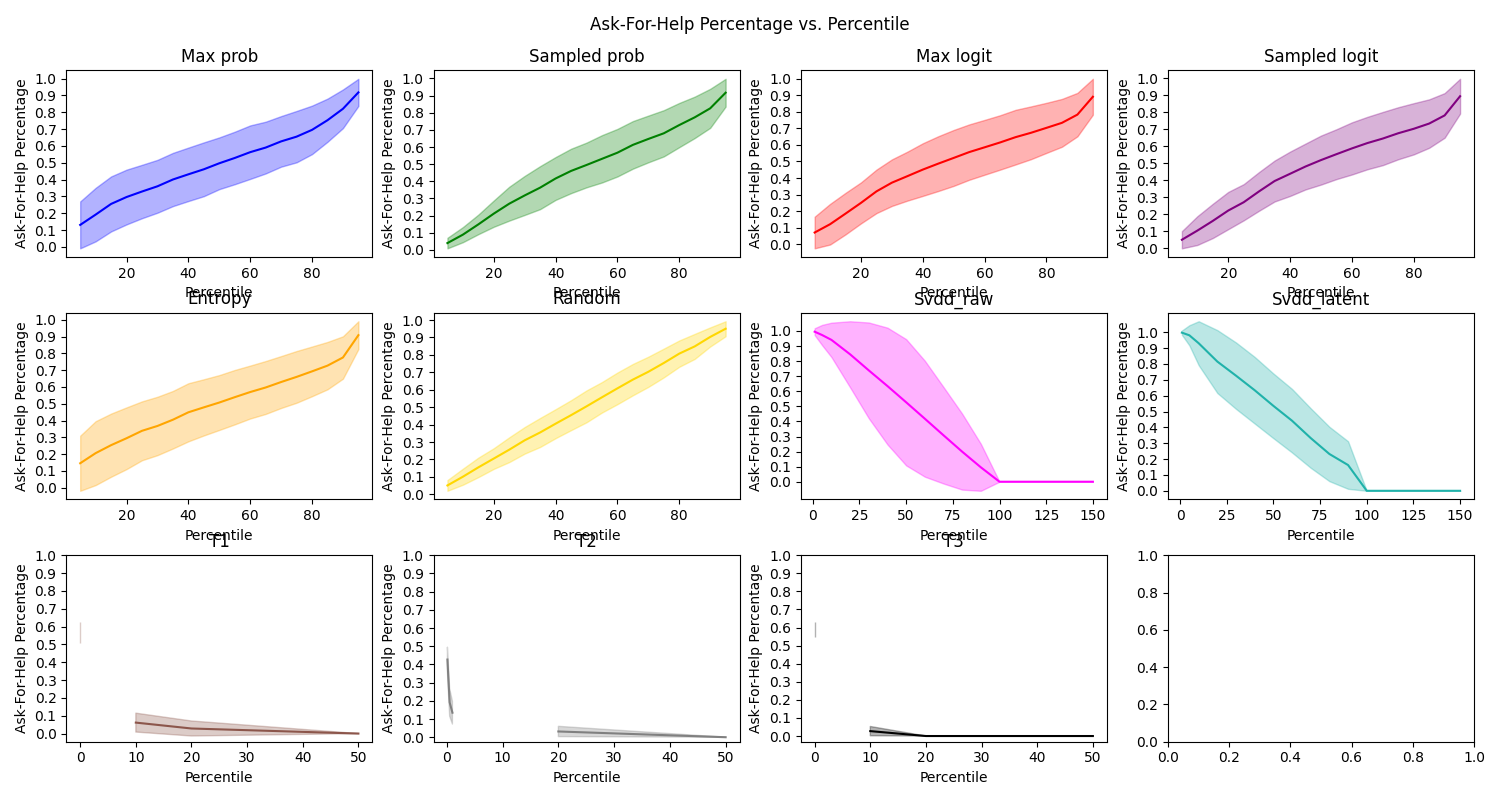
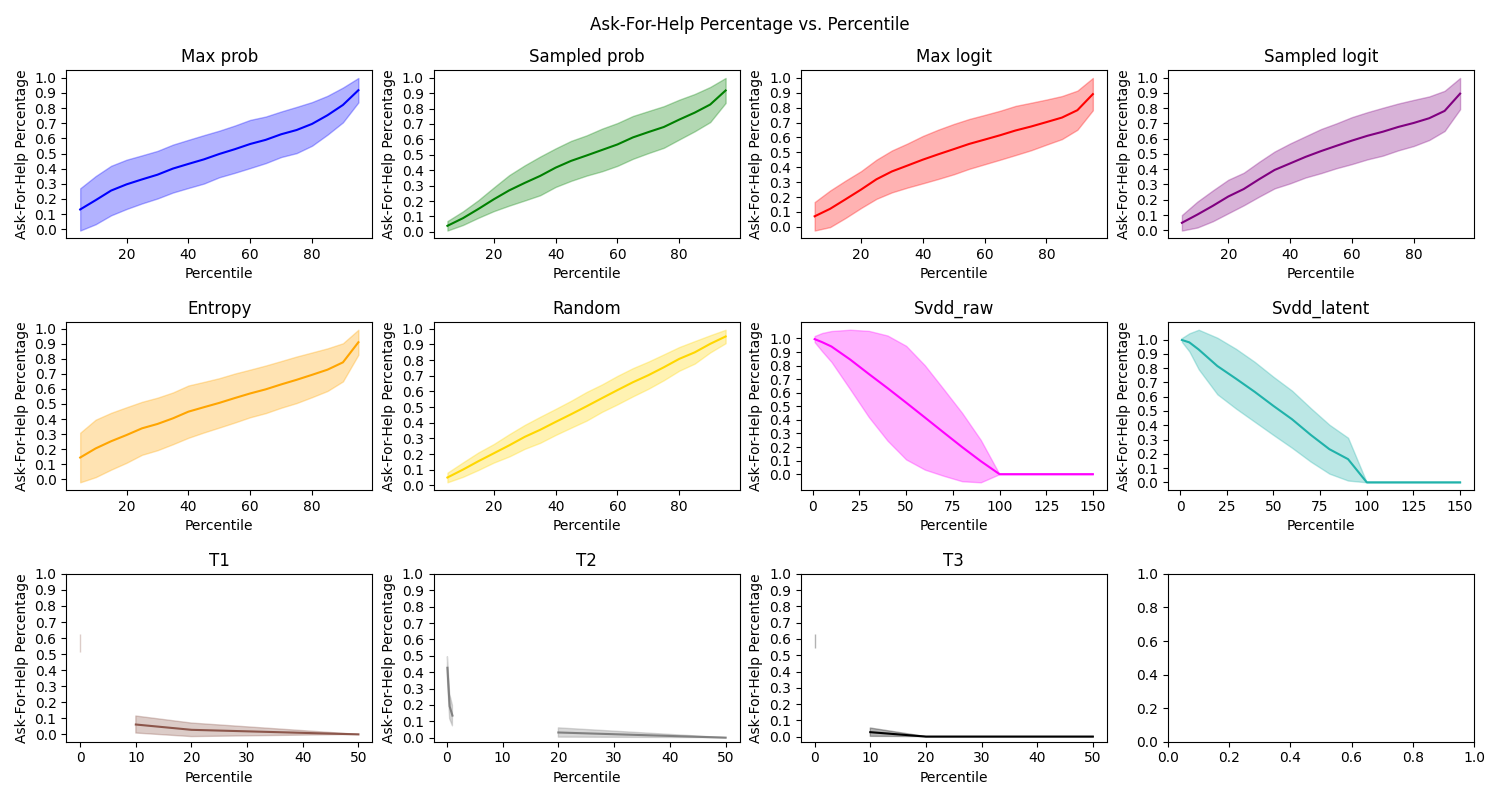
modifications

diff --git a/full_analysis.py b/full_analysis.py
@@ -210,16 +210,17 @@ for metric in include_metrics:
                         rewards = [min(reward, norm_factor) for reward in rewards]
                     else:
                         assert all([reward <= 10 for reward in rewards]), f"wtf {metric} {it} {rewards}"
+                    normalized_rewards = [reward / norm_factor for reward in rewards]
                     if args.grand_metric:
-                        rew_by_perc.append([reward / norm_factor for reward in rewards])
+                        rew_by_perc.append(normalized_rewards)
                     elif args.plotting:
-                        rew_by_perc[metric].append([reward / norm_factor for reward in rewards])
+                        rew_by_perc[metric].append(normalized_rewards)
                 if "all queries" in line.lower():
                     queries = eval(line[len("all queries: "):].strip())
                 if "all switches" in line.lower():
                     switches = eval(line[len("all switches: "):].strip())
                 if "all adjusted rewards" in line.lower():
-                    logged_adjusted_rewards = eval(line[len("all adjusted rewards: "):].strip())
+                    logged_adjusted_rewards = [lar / norm_factor for lar in eval(line[len("all adjusted rewards: "):].strip())]
                 if "run lengths" in line.lower():
                     if "T" in metric:
                         run_lengths = eval(line[len("all run lengths: "):].strip())
@@ -262,7 +263,7 @@ for metric in include_metrics:
                             adjusted_reward -= 10/256 * args.switching_cost
                         curr_idx += 1
                         curr_run_length += 1
-                    perc_adjusted_rewards.append(adjusted_reward)
+                    perc_adjusted_rewards.append(adjusted_reward / norm_factor)
                 if args.grand_metric:
                     adj_rew_by_perc.append(perc_adjusted_rewards)
                 elif args.plotting:
@@ -294,6 +295,9 @@ for metric in include_metrics:
         # Adding 100% ask for help
         afhp_means.append(1)
         rew_means.append(expert_perf_mean)
+        if "T" in metric:
+            print("AFHP MEANS:", afhp_means)
+            print("REW MEANS:", rew_means)
         adj_rew_means.append(expert_perf_mean - (10/256 * args.query_cost * 256))
         reward_area = np.trapz(rew_means, afhp_means)
         adjusted_reward_area = np.trapz(adj_rew_means, afhp_means)
@@ -327,7 +331,7 @@ for metric in include_metrics:
             # axes1[-1][-1].text(0.5, 0.5, "made you look", horizontalalignment = "center", verticalalignment = "center", transform = axes1[-1][-1].transAxes, fontsize = 6)
             fig1.suptitle("Performance by Percentile")
             fig1.tight_layout()
-            fig1.subplots_adjust(hspace = 0.3, wspace = 0.2)
+            fig1.subplots_adjust(hspace = 0.5, wspace = 0.2)
             fig1.savefig(f"plots/{args.test_env}/{args.prefix}_performance_by_percentile{args.suffix}.png")
             print("Done one plot of", PLOT_PERF_VS_PERC)
     
@@ -346,7 +350,7 @@ for metric in include_metrics:
             # axes2[-1][-1].text(0.5, 0.5, "again?", horizontalalignment = "center", verticalalignment = "center", transform = axes2[-1][-1].transAxes, fontsize = 6)
             fig2.suptitle("Ask-For-Help Percentage vs. Percentile")
             fig2.tight_layout()
-            fig2.subplots_adjust(hspace = 0.3, wspace = 0.2)
+            fig2.subplots_adjust(hspace = 0.5, wspace = 0.2)
             fig2.savefig(f"plots/{args.test_env}/{args.prefix}_help_percentage_by_percentile{args.suffix}.png")
             print("Done one plot of", PLOT_PROP_VS_PERC)
 
@@ -381,7 +385,7 @@ for metric in include_metrics:
             # axes3[-1][-1].text(0.5, 0.5, "( ͡° ͜ʖ ͡°)", horizontalalignment = "center", verticalalignment = "center", transform = axes3[-1][-1].transAxes, fontsize = 5)
             fig3.suptitle("Performance vs. Ask-For-Help Percentage")
             fig3.tight_layout()
-            fig3.subplots_adjust(hspace = 0.3, wspace = 0.2)
+            fig3.subplots_adjust(hspace = 0.5, wspace = 0.2)
             fig3.savefig(f"plots/{args.test_env}/{args.prefix}_performance_by_help_percentage{'_bucketed' if args.bucketed else ''}{args.suffix}.png")
             print("Done one plot of", PLOT_PERF_VS_PROP)
 
@@ -398,7 +402,7 @@ for metric in include_metrics:
             # axes4[-1][-1].text(0.5, 0.5, "hey there", horizontalalignment = "center", verticalalignment = "center", transform = axes4[-1][-1].transAxes, fontsize = 5)
             fig4.suptitle("Ask-For-Help Percentage by Segment of Run")
             fig4.tight_layout()
-            fig4.subplots_adjust(hspace = 0.3, wspace = 0.2)
+            fig4.subplots_adjust(hspace = 0.5, wspace = 0.2)
             fig4.savefig(f"plots/{args.test_env}/{args.prefix}_help_percentage_by_timestep{args.suffix}.png")
             print("Done one plot of", PLOT_PROP_VS_TIME)
 
@@ -436,6 +440,7 @@ if args.plotting:
             adj_rew_means, adj_rew_stds, adj_rew_sems = get_statistics_nested(adj_rew_by_perc[metric], True)
             axes5.plot(afhp_means, rew_means, color = colors[metric], label = f"Reward (mean SD: {np.round(np.mean(rew_stds), 2)})")
             # ax.plot(afhp_means, adj_rew_means, color = colors[metric], linestyle = "dashed", label = f"Adj. Reward (mean SD: {np.round(np.mean(adj_rew_stds), 2)})")
+        axes5.legend()
         fig5.suptitle("Performance vs. AFHP, All Metrics")
         fig5.tight_layout()
         fig5.savefig(f"plots/{args.test_env}/{args.prefix}_performance_by_afhp_all{args.suffix}.png")
